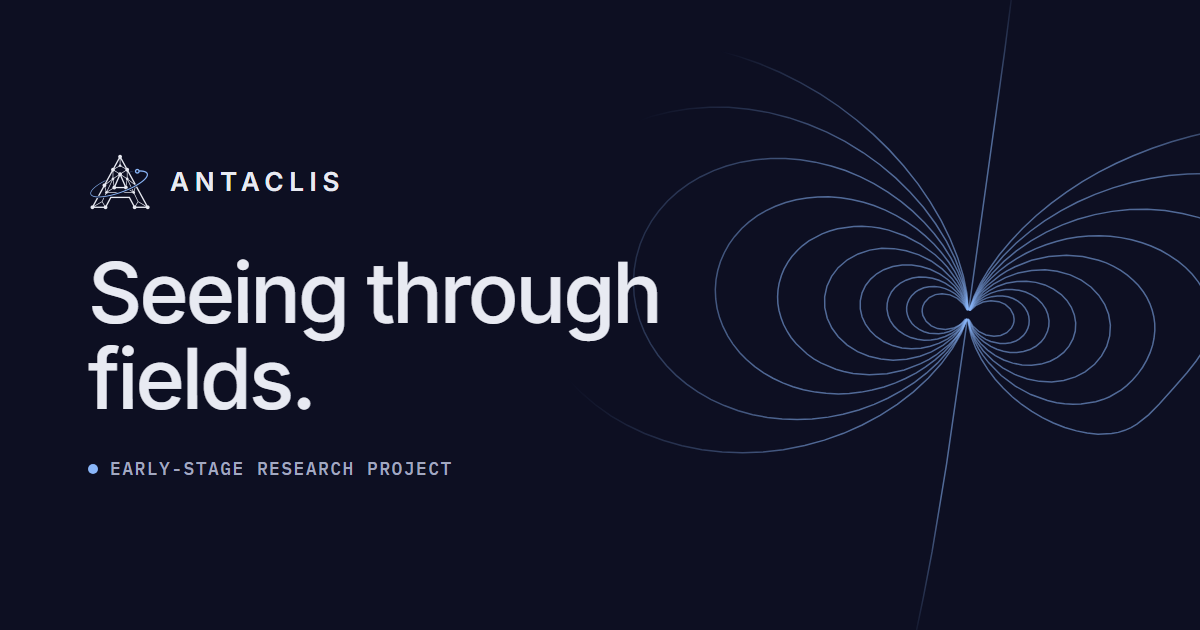
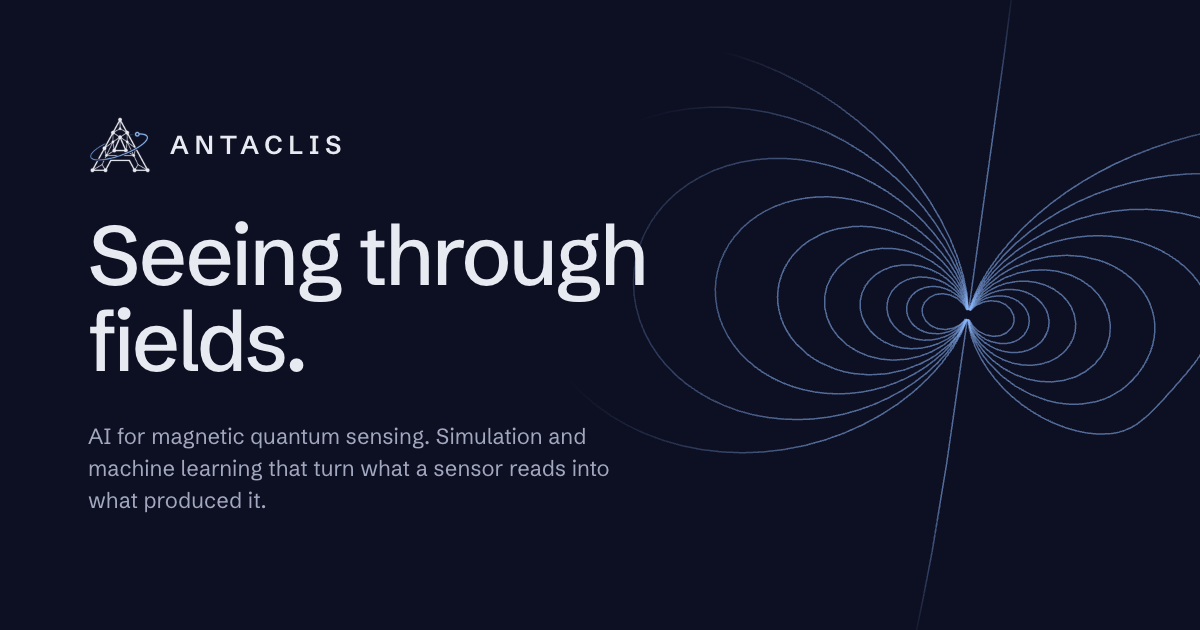
chore: social preview, tools docs and readme for the redesign

Changed region(s): [[0.0617, 0.3317, 0.555, 0.754], [0.0617, 0.181, 0.3083, 0.3317], [0.0617, 0.7841, 0.2158, 0.8143]]

diff --git a/tools/og.html b/tools/og.html
@@ -6,13 +6,12 @@
   <meta charset="utf-8">
   <title>og image</title>
   <style>
-    @font-face { font-family: "Inter"; src: url("../site/fonts/inter-latin-wght.woff2") format("woff2"); font-weight: 100 900; }
-    @font-face { font-family: "IBM Plex Mono"; src: url("../site/fonts/ibm-plex-mono-latin-500.woff2") format("woff2"); font-weight: 500; }
+    @font-face { font-family: "Schibsted Grotesk"; src: url("../site/fonts/schibsted-grotesk-latin-wght.woff2") format("woff2"); font-weight: 100 900; }
     html, body { margin: 0; }
     body {
       width: 1200px; height: 630px; overflow: hidden; position: relative;
       background: #0D0F22; color: #E8EAF2;
-      font-family: "Inter", sans-serif; font-feature-settings: "cv11", "ss01";
+      font-family: "Schibsted Grotesk", sans-serif;
       -webkit-font-smoothing: antialiased;
     }
     .text { position: absolute; left: 88px; top: 0; bottom: 0; display: flex; flex-direction: column; justify-content: center; gap: 36px; }
@@ -20,8 +19,7 @@
     .brand img { width: 64px; height: 64px; }
     .brand span { font-weight: 600; font-size: 26px; letter-spacing: 0.22em; text-transform: uppercase; }
     h1 { margin: 0; font-weight: 500; font-size: 84px; line-height: 1.02; letter-spacing: -0.035em; }
-    .label { font-family: "IBM Plex Mono", monospace; font-size: 18px; letter-spacing: 0.08em; text-transform: uppercase; color: #A2A8C0; display: flex; align-items: center; gap: 12px; }
-    .label::before { content: ""; width: 10px; height: 10px; border-radius: 50%; background: #8AB6F9; }
+    .lead { margin: 0; max-width: 560px; font-size: 22px; line-height: 1.45; color: #A2A8C0; }
     svg { position: absolute; right: -230px; top: -25px; height: 680px; width: auto;
           -webkit-mask-image: radial-gradient(closest-side, #000 55%, transparent 100%); }
     path { fill: none; stroke: #8AB6F9; stroke-opacity: 0.55; stroke-width: 1.1; stroke-linecap: round; }
@@ -57,7 +55,7 @@
   <div class="text">
     <div class="brand"><img src="../site/assets/logo-mark-dark.png" alt=""><span>Antaclis</span></div>
     <h1>Seeing through<br>fields.</h1>
-    <p class="label" style="margin:0">Early-stage research project</p>
+    <p class="lead">AI for magnetic quantum sensing. Simulation and machine learning that turn what a sensor reads into what produced it.</p>
   </div>
 </body>
 </html>

diff --git a/tests/content.test.js b/tests/content.test.js
@@ -59,3 +59,10 @@ test("the team section is kept with four people", () => {
   assert.equal((html.match(/class="person"/g) || []).length, 4);
   assert.match(html, /linkedin\.com\/in\/aurelio-amerio/);
 });
+
+test("the social preview source matches the page", () => {
+  const og = readFileSync("tools/og.html", "utf8");
+  assert.ok(!/early-stage|research project|Inter/i.test(og));
+  assert.ok(og.includes("Seeing through"));
+  assert.ok(og.includes("schibsted-grotesk-latin-wght.woff2"));
+});

diff --git a/tools/README.md b/tools/README.md
@@ -1,16 +1,17 @@
 # tools
 
 Helper scripts for the website. Nothing here is published; GitHub Pages only serves `site/`.
-Requires Python with `numpy` and `Pillow`. Run everything from the repo root.
+The Python tools need `numpy` and `Pillow`. One way to get them without installing anything globally is `uv run --with numpy --with pillow python tools/<script>.py`. Run everything from the repo root.
 
 | Script | What it does |
 | --- | --- |
 | `python tools/brand.py` | Builds the logo variants and favicons in `site/assets/` (plus `site/favicon.ico`) from `a-logo-white.png`. |
 | `python tools/fieldlines.py` | Computes the hero field lines and writes them into `site/index.html` and `tools/og.html`, between the `FIELD-LINES` markers. To change the drawing, edit `DIPOLES` and `LOOPS` at the top of the script. |
-| `site/field.js` (not a tool, but related) | The live hero animation. It replaces the static SVG in the browser. Expansion speed, sway, pulse length and timings are set at the top of the file and in `state(t)`. The static SVG is still used without JavaScript or with "reduce motion" on. |
+| `site/stage/model.js`, `sequence.js`, `stage.js` (not tools, but related) | The live hero stage. `model.js` is the field physics, `sequence.js` turns scroll, time and drag into state and fits the camera, `stage.js` is the three.js scene. Two debug hooks on the page URL: `?p=<0..1>` jumps to a position in the sequence, and `?nowebgl=1` forces the static fallback. |
+| `npm test` | Runs the unit and content tests in `tests/` with `node --test`. |
 | `og.html` | Source of the social preview image `site/assets/og.png` (1200×630). To regenerate it with Chrome: |
 
 ```sh
-chrome --headless=new --hide-scrollbars --window-size=1200,630 \
+chrome --headless=new --hide-scrollbars --virtual-time-budget=2000 --window-size=1200,630 \
   --screenshot=site/assets/og.png "file:///<full path>/tools/og.html"
 ```

diff --git a/README.md b/README.md
@@ -1,1 +1,3 @@
 # Antaclis
+
+The website for Antaclis, a static page with no build step: the files in `site/` are served as they are, and the hero is a WebGL scene in `site/stage/`. Every push to `main` deploys `site/` to GitHub Pages through `.github/workflows/deploy.yml`, and it is served at https://antaclis.com/. To test, run `npm test`; helper scripts for the logo, field lines and social preview are described in `tools/README.md`.
